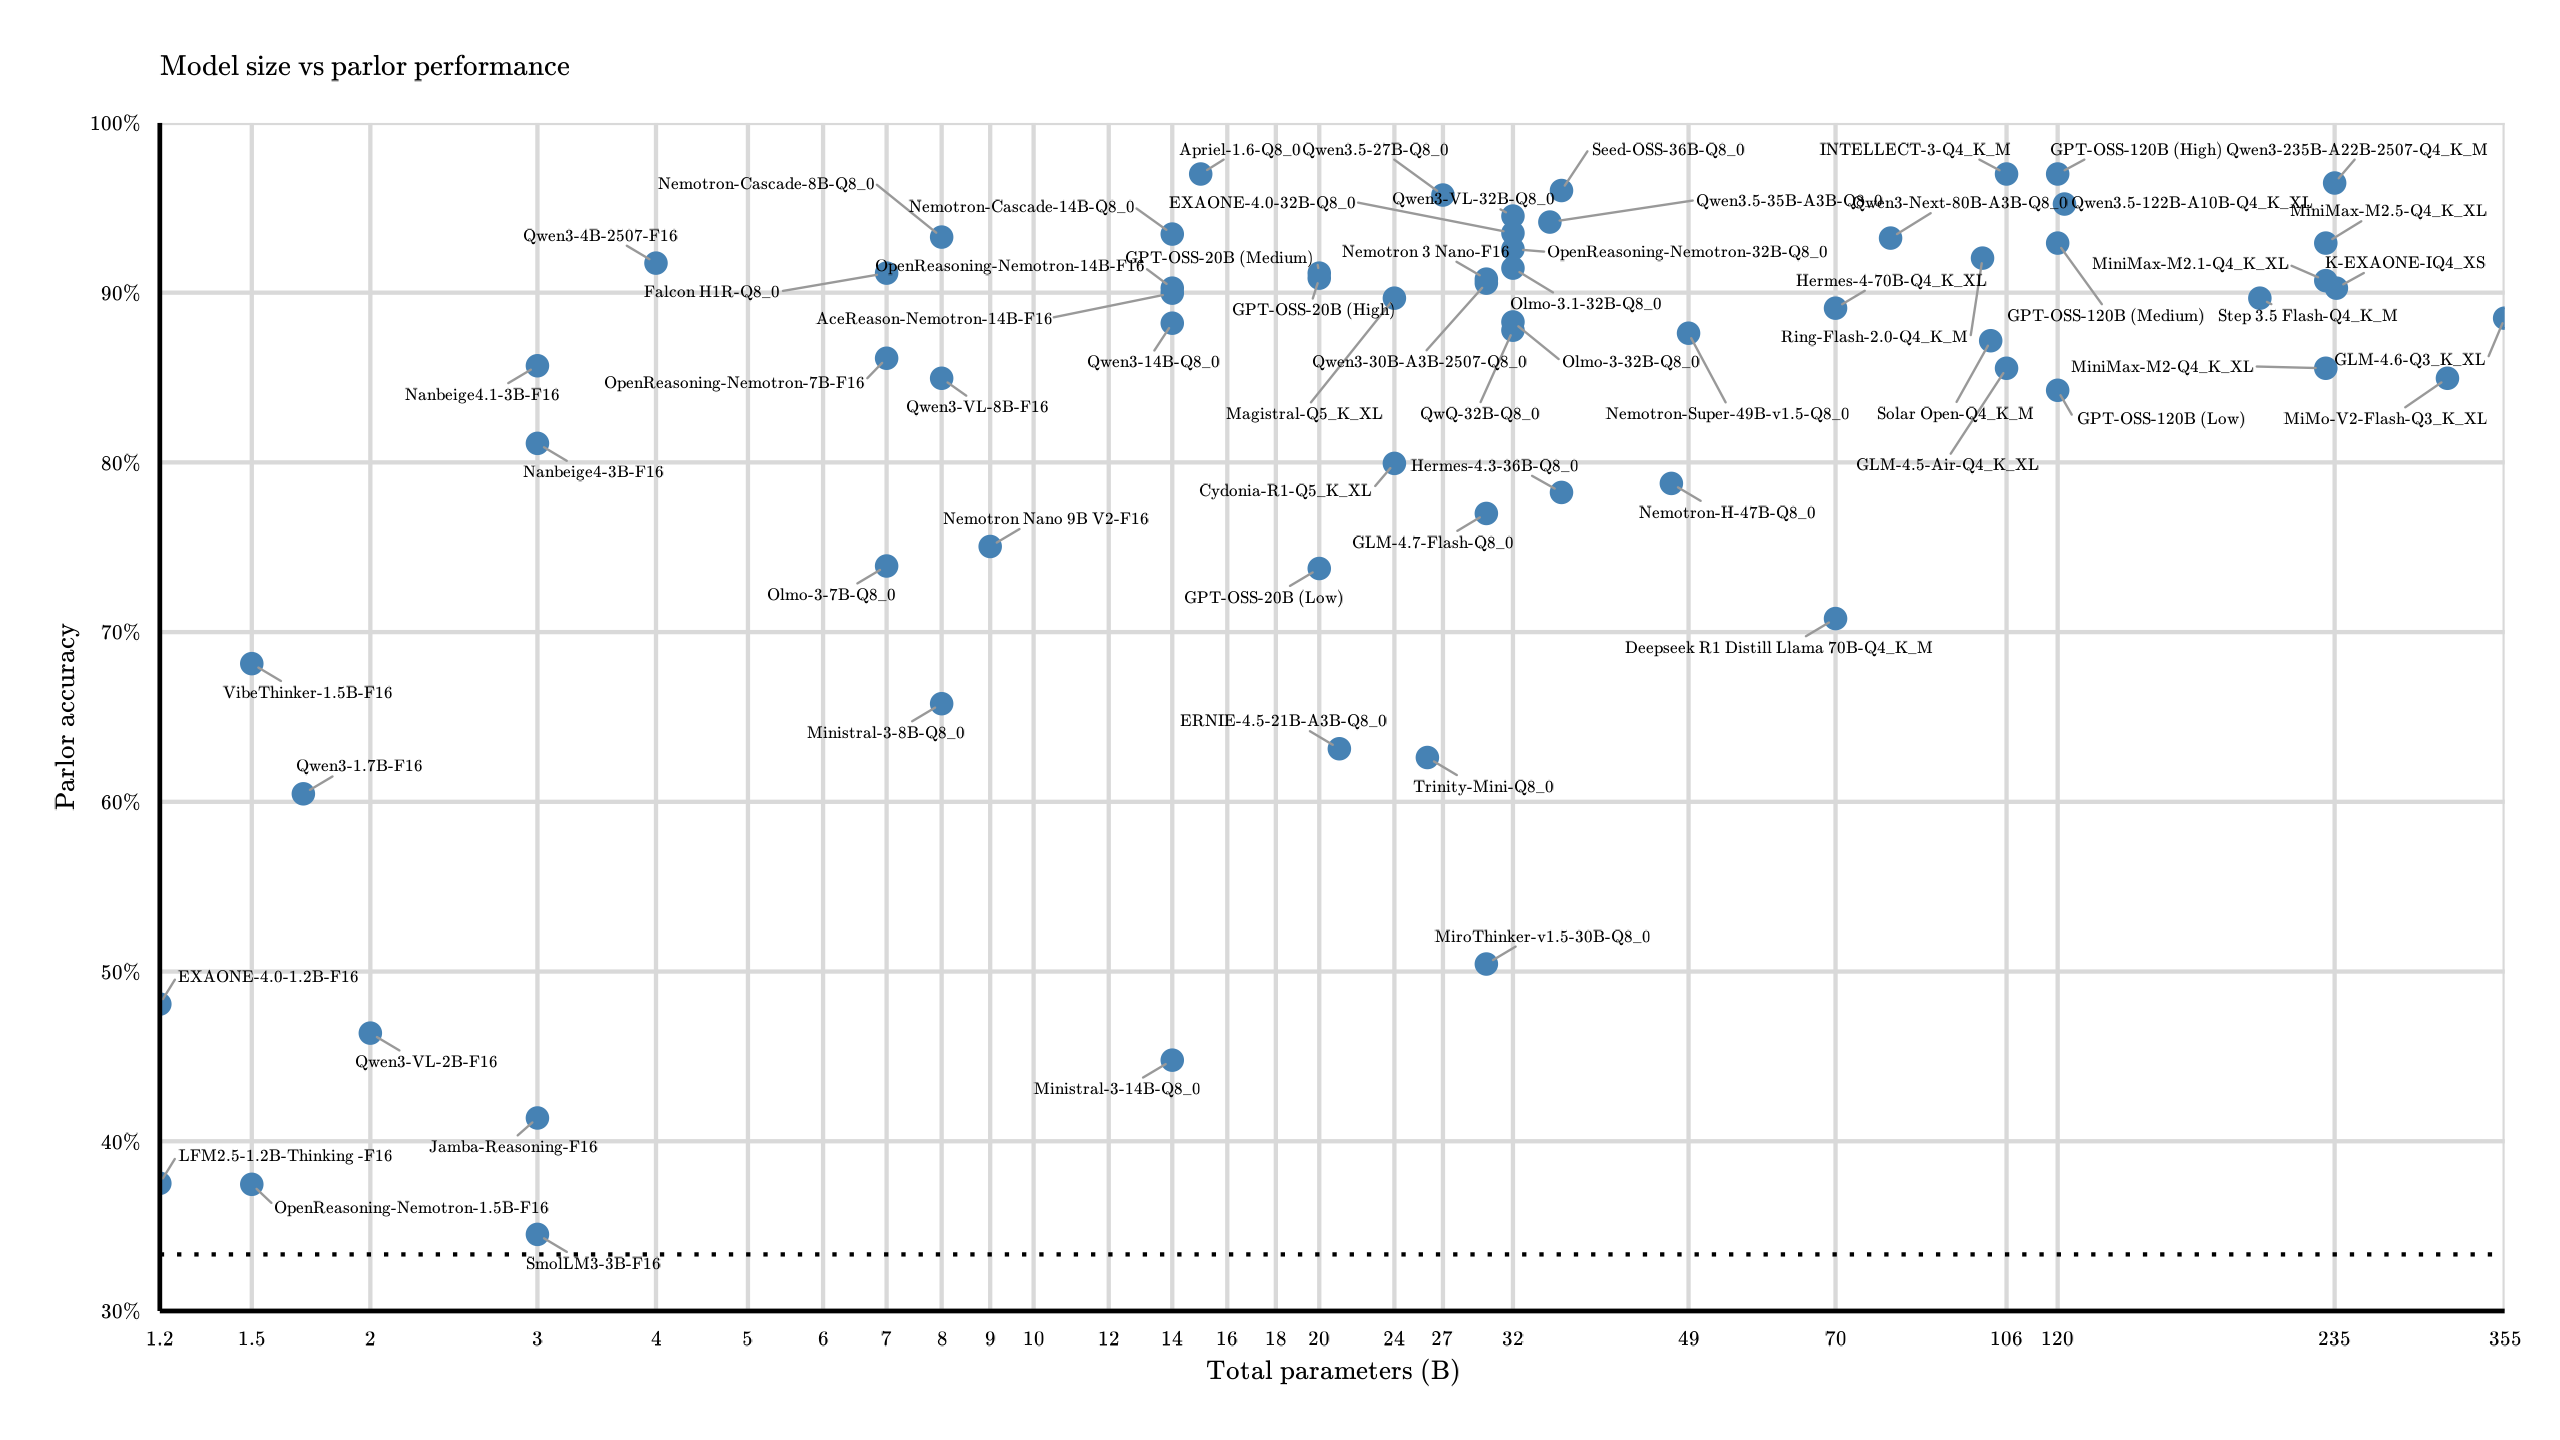
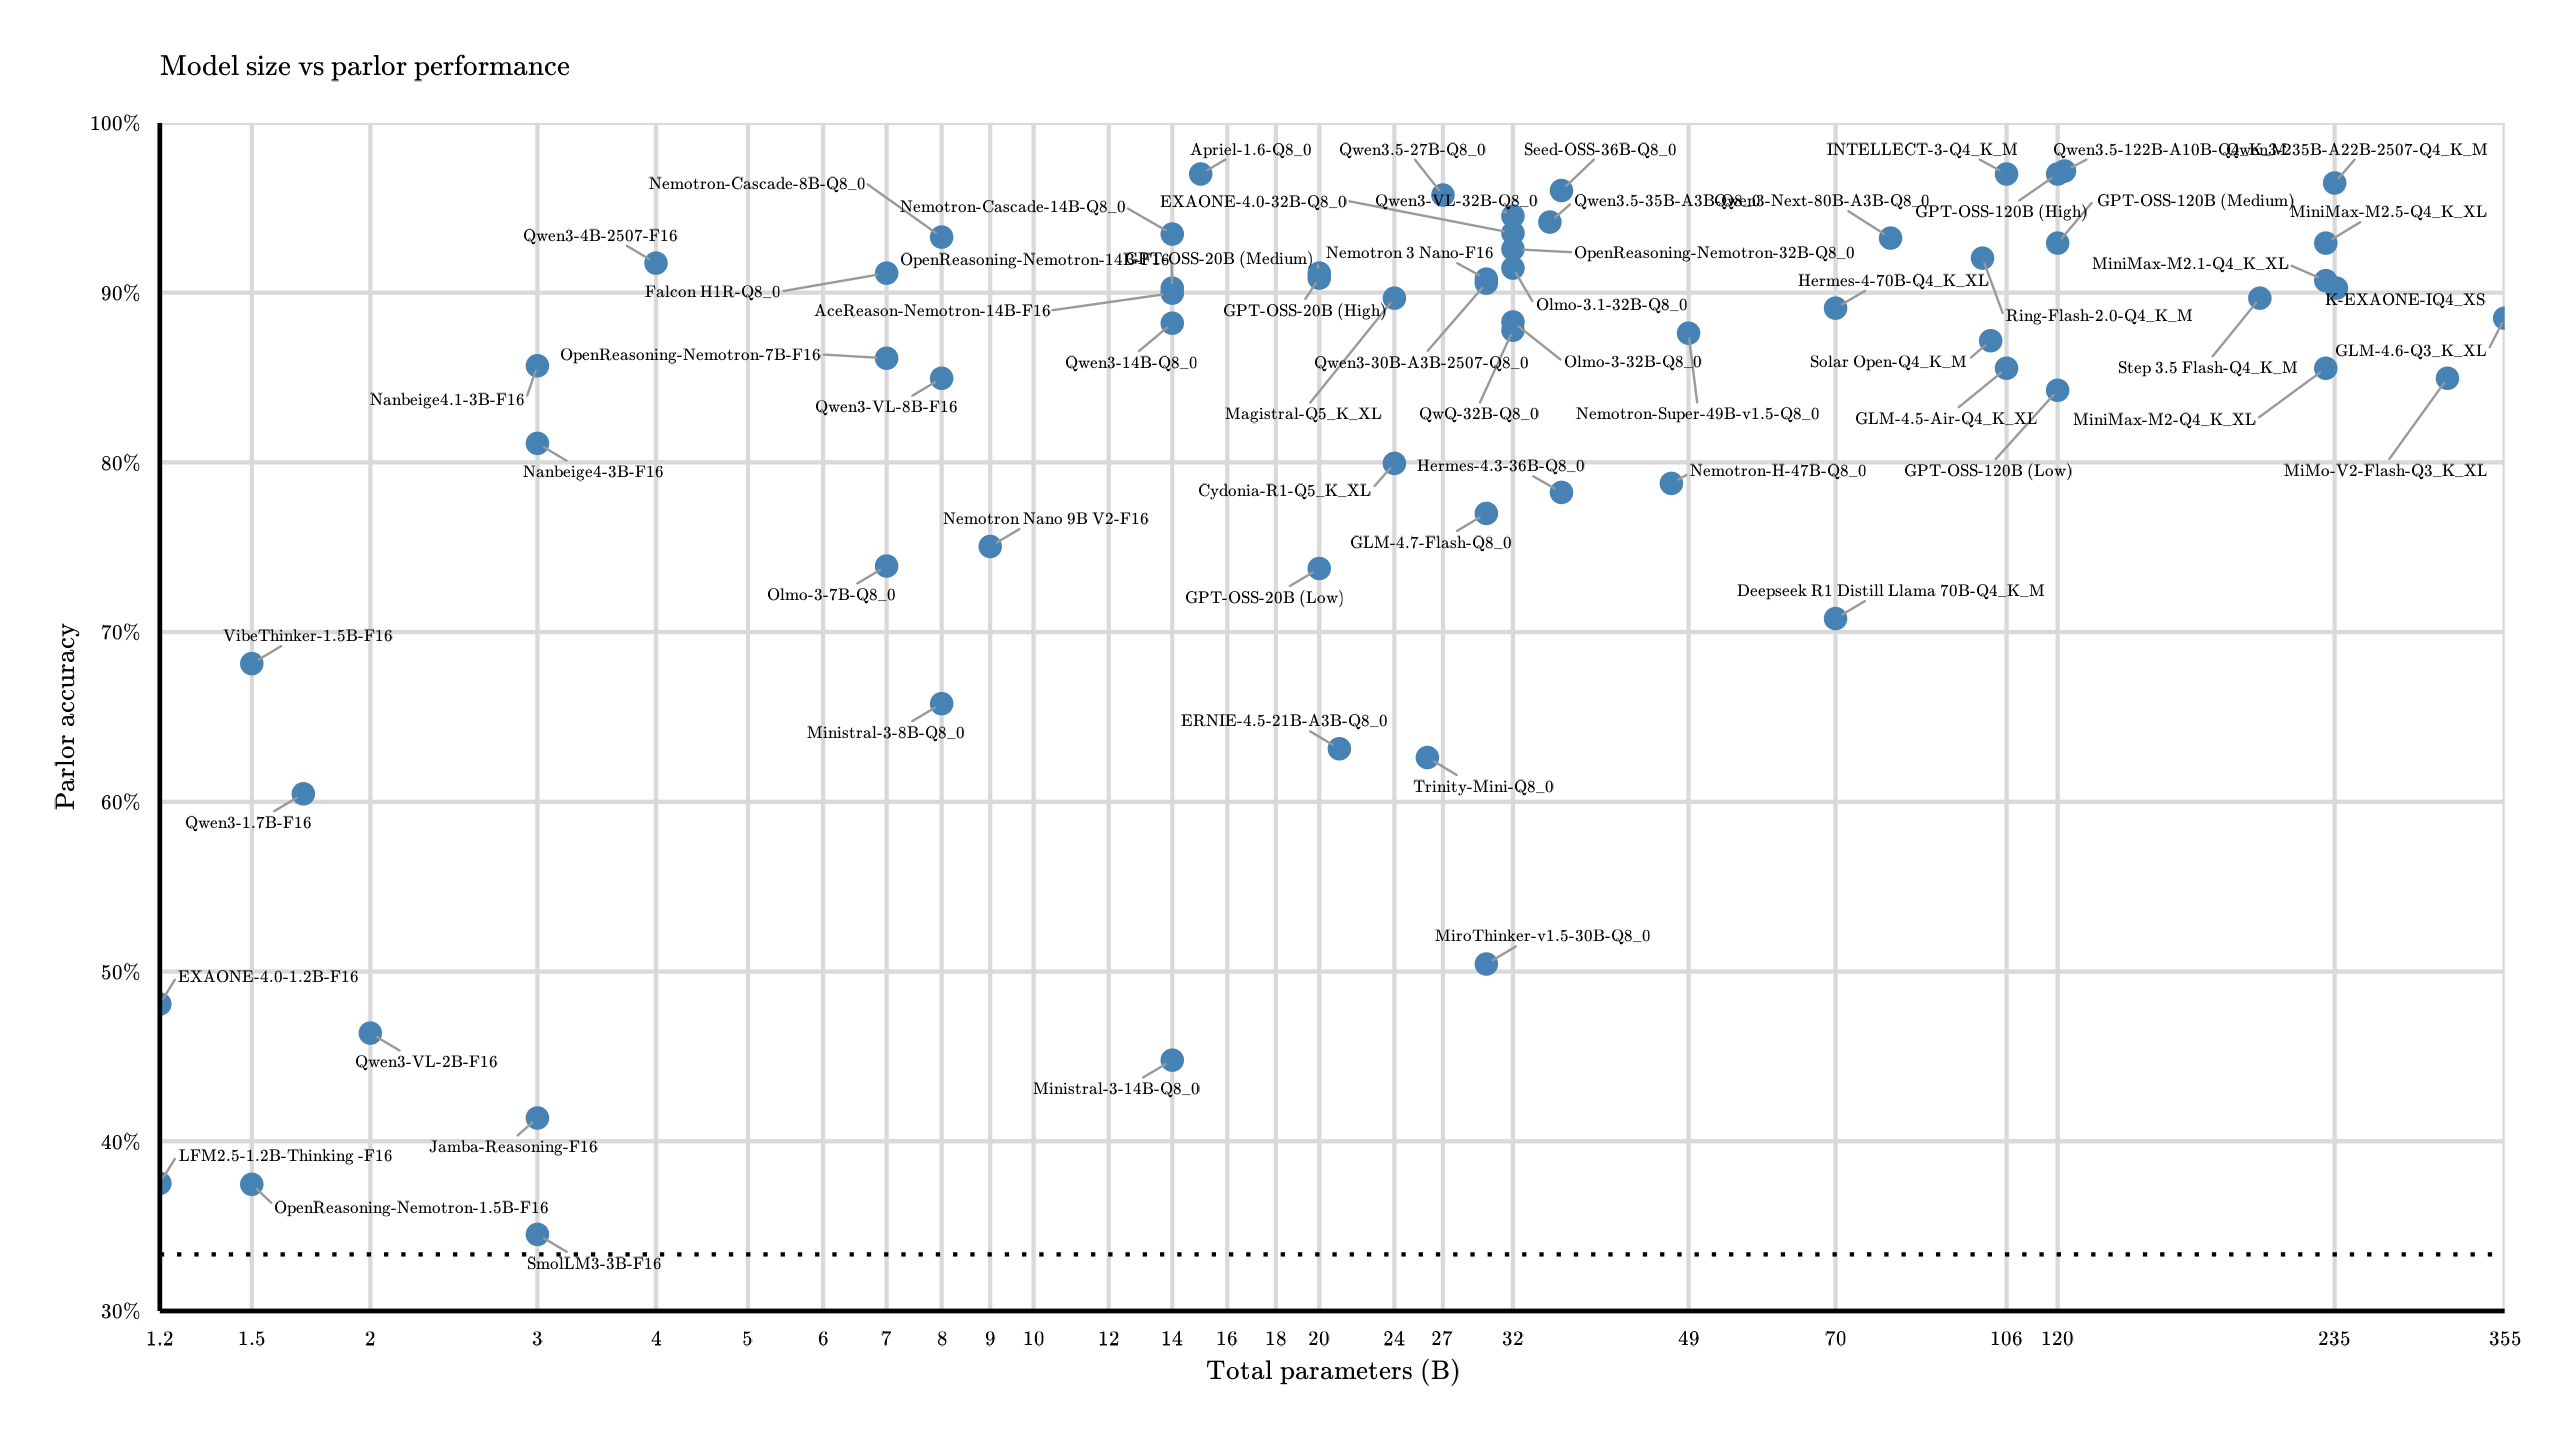
Parlor: INTELLECT-3.1, another Qwen3.5, text fixes

diff --git a/pages/parlor-reasoning.html b/pages/parlor-reasoning.html
@@ -44,7 +44,7 @@
         <div class="article-container">
             <header class="article-header">
                 <h1>Reasoning LLMs vs the Parlor Puzzle</h1>
-                <div class="meta">By BigStupidJellyfish | 2025-November-02 | Updated 2026-February-26</div>
+                <div class="meta">By BigStupidJellyfish | 2025-November-02 | Updated 2026-February-27</div>
             </header>
 <div class="article-content">
 
@@ -136,10 +136,11 @@
 </p>
 <p>
 	Max response length was set to 24k tokens.
-	Some response lengths are slight approximations due to the tools used.
+	<!-- Some response lengths are slight approximations due to the tools used. -->
 	I wrote a standardized prompt that provides enough information to solve all the puzzle configurations.
 	<!-- like mentioning the wind-up key used to open the boxes. -->
 	<!-- All tests in this section were ran with a constant prompt. -->
+	 Aside from the obvious exceptions (GPT-5, Gemini), all models were tested locally.
 </p>
 <p>
 	The results, in short:
@@ -347,6 +348,14 @@
       <td>113*5</td>
       <td>97.0%</td> <!-- 548/565 -->
       <td>6357/5245 tokens</td>
+    </tr>
+	<tr>
+      <td><a href="https://huggingface.co/PrimeIntellect/INTELLECT-3.1">INTELLECT-3.1</a></td>
+	  <td>106B</td>
+	  <td>MXFP4</td>
+      <td>113*3</td>
+      <td>96.8%</td> <!-- 328/339 -->
+      <td>6419/5201 tokens</td>
     </tr>
 	<tr>
       <td><a href="https://huggingface.co/LiquidAI/LFM2.5-1.2B-Thinking">LFM2.5-1.2B-Thinking</a></td>
@@ -656,14 +665,14 @@
 </p>
 <p>
 	The <a href="https://huggingface.co/ServiceNow-AI/Apriel-1.6-15b-Thinker">1.6 update</a> scored even better: 97.0%.
-	Its reasoning formatting was still irritating, to the point of making me not want to try using this model for other tasks, and it came up with more "unique" (bad) ways of displaying its answer than most models.
+	Its reasoning formatting was still irritating, to the point of making me not want to use this model for other tasks, and it came up with more "unique" (bad) ways of displaying its answer than most models.
 </p>
 
 <h3>Cydonia R1</h3>
 <p>
-	To be clear, this model seems to be a fine-tune of a non-reasoning model, adding reasoning with a focus on improving role-play performance.
+	To be clear, this model seems to be a fine-tune of a non-reasoning model (Mistral Small), adding reasoning with a focus on improving role-play performance.
 	I included it in this test because I was curious if that added thinking would still improve performance on other subjects.
-	It showed some improvement from Mistral Small, but was not on the level of Magistral.
+	It showed some improvement from its base, but was not on the level of Magistral.
 </p>
 
 <h3>EXAONE</h3>
@@ -712,8 +721,9 @@
 <p>
 	Perhaps there's some kind of logical reasoning focus in training this model neglected compared to its competitors.
 	Some blame of course may go to the low quant on 4.6, though I can't imagine that explains everything (even the Q3_K_XL Qwen3-4B did alright compared to its F16 version).
-	See also the INTELLECT-3 model trained on 4.5-Air.
+	See also: INTELLECT-3, trained on 4.5-Air.
 </p>
+
 <h3>GPT-5-Thinking-Mini</h3>
 <p>
 	This is the "thinking" model you get some access to without spending money.
@@ -726,7 +736,7 @@
 
 <h3>GPT-OSS</h3>
 <p>
-	The reasoning effort setting gives us a whole bunch of configurations, so I've copied over its best result and included the rest here:
+	The reasoning effort setting gives us a whole bunch of configurations, so I've copied over its best result to the main table and included the rest here:
 </p>
 <table>
   <thead>
@@ -805,7 +815,7 @@
 	The 120B model's high setting performed much better with a 97%, and is one of the best performances.
 </p>
 <p>
-	It's also notably a better score than the GPT-5-Thinking-Mini model, which is limited to ~10 messages every few hours without paying.
+	It's a better score than the GPT-5-Thinking-Mini model, which is limited to ~10 messages every few hours without paying.
 	The OSS models lack certain features (image recognition) and would need setup for others (tool integration), but are surprisingly competitive for this sort of task.
 	Just make sure it's set to high, and make sure it's actually listening to that setting.
 </p>
@@ -845,9 +855,7 @@ Batch final 3: 43317
 </p>
 <p>
 	Its reasoning length is a bit longer than GPT-OSS.
-</p>
-<p>
-	I may test this model more in other areas in the future, but cannot immediately comment on if any other areas have suffered as a result of this training.
+	No significant changes with its 3.1 update.
 </p>
 
 <h3>MiniMax M2</h3>
@@ -931,18 +939,19 @@ Batch final 3: 43317
 </p>
 <p>
 	Unfortunately, even the full Q4 model was not very good at these puzzles.
-	This was relatively surprising given its high "intelligence index" score (which tends to heavily favor math/reasoning-type models) and its overall focus on being a reasoning/STEM model.
-	Its relatively low active parameter count (10B) also is not a satisfactory explanation: on the extreme end of the size scale, MiniMax's parlor score is right between Nanbeige4 (3B total params) and Qwen3-4B-Thinking (4B total params).
-	If we were to set aside all the times it hit the token limit, its score on the remaining questions is a bit better (~91%), but that's still not an excellent score and applying the same standard to Ministral-3-14B would give it a score of ~94%.
+	This was relatively surprising given its high "intelligence index" score, which tends to heavily favor math/reasoning-type models, and its overall focus on being a coding/reasoning/STEM model.
+	Its relatively low active parameter count (10B) also is not a satisfactory explanation: on the extreme end of the size scale, MiniMax's parlor score could be placed between Nanbeige4 (3B total params) and Qwen3-4B-Thinking (4B total params).
+	If we were to set aside all the times it hit the token limit, its score on the remaining questions is a bit better (~91%), but that's still not an excellent score and applying the same standard to Ministral-3-14B would give that a score of ~94%.
 </p>
 <p>
 	Somehow, the 40% REAP version (Q4) scored slightly better than the regular Q4.
 	The 25% (Q3) REAP was also competitive with the full Q4, making them look like a decent option vs the standard IQ2_XXS or Q2_K_XL quants.
+	Performance in other domains not guaranteed, of course.
 </p>
-<p>
+<!-- <p>
 	I may try experimenting with this model more in the future, as the low active parameter count make even the proper Q4 run at a decent speed off of RAM, but for now, I can't tell you exactly why the scores are as listed.
 	The 2.1 update seems reasonable, bringing its score into a more respectable region while also using fewer tokens.
-</p>
+</p> -->
 <p>
 	Released in February 2026, MiniMax M2.5 looks to be a reasonable improvement.
 	It scores slightly better than 2/2.1, but its token usage is somewhere in between them.
@@ -1128,28 +1137,8 @@ Batch final 3: 43317
 	Very nice!
 	Its 96% is one of the better scores, also beating the online GPT-5-Thinking-Mini.
 	<!-- It only timed out two times (in 2x113 runs), both on the same puzzle: -->
-</p>
-<!-- <ul>
-	<li>Blue: "The statement matching this statement is true. 
-The statement matching this statement is on a completely true box."
-</li>
-<li>White: "The statement matching this statement is true. 
-The statement matching this statement is on a box containing gems."
-</li>
-<li>Black: "The statement matching this statement is on a box containing gems. 
-The statement matching this statement is on a completely true box."
-</li>
-</ul> -->
-<!-- <p>
-	Which, if you ask me, can actually be simplified/solved surprisingly quickly.
-	I'm not too surprised a LLM would get tripped up, though.
-	The reasoning traces largely seemed to struggle to understand what a "matching" statement is.
-</p> -->
-<p>
 	<!-- Amusingly, the Q4 timed out only once on a separate problem, and got the above problem right on one of its two attempts. -->
 	Total score was unchanged between its Q4/Q8 quants.
-</p>
-<p>
 	Its score on my non-thinking/fact-based benchmark was about typical for its size.
 </p>
 
@@ -1277,6 +1266,14 @@ The statement matching this statement is on a completely true box."
 	<tr>
       <td><a href="https://huggingface.co/Qwen/Qwen3.5-122B-A10B">Qwen3.5-122B-A10B</a></td>
 	  <td>122B</td>
+	  <td>Q4_K_M</td>
+      <td>113*5</td>
+	  <td>97.2%</td> <!-- 549/565 -->
+      <td>5397/4855 tokens</td>
+    </tr>
+	<tr>
+      <td></td>
+	  <td></td>
 	  <td>Q4_K_XL</td>
       <td>113*5</td>
 	  <td>95.2%</td> <!-- 538/565 -->
@@ -1294,8 +1291,6 @@ The statement matching this statement is on a completely true box."
 </table>
 <p>
 	1.7B, VL-2B: I recommend using at least slightly larger models than this.
-</p>
-<p>
 	4B: This model was small and promising enough to test a range of its quantizations, which may be easier to review visually:
 </p>
 <center><div class="figure">
@@ -1321,10 +1316,21 @@ The statement matching this statement is on a completely true box."
 	Supporting a model with RAG/web search/similar tech can also only do so much.
 	Models cannot actually reflect on their own knowledge, and may not reliably use these tools when they truly need to.
 </p>
-<p>
+<!-- <p>
 	In my more <a href="llm-quants#pq">fact-based testing</a>, the instruct version of this model scored around 45%. (Thinking, in general, showed no major improvement on those tests.)
 	Certainly not a bad score for its size, but a number of 7-14B models did noticeably better, and are not that much harder to run.
+</p> -->
+<!-- <p>
+	Qwen3-Next: my impressions so far are that GLM-4.5-Air has a bit of an edge for instruct/general capabilities, and GPT-OSS-120B has an advantage in reasoning tasks.
+	That said, it's relatively competitive with both despite the size disadvantage.
+	Its knowledge cutoff seems better than most models I've tested so far, which can be very nice.
+</p> -->
+<p>
+	Qwen3.5: they do quite nicely here, beating all previous Qwen models short of the 235B-A22B.
+	Token consumption is normal.
+	Curiously, <a href="https://huggingface.co/AesSedai/Qwen3.5-122B-A10B-GGUF">this Q4_K_M</a> of the 122B-A10B scored noticeably higher than the <a href="https://huggingface.co/unsloth/Qwen3.5-122B-A10B-GGUF">unsloth Q4_K_XL</a>, and set a new record on the test by 0.2%.
 </p>
+<h3>Distills</h3>
 <p>
 	I also tested <a href="https://huggingface.co/Liontix/Qwen3-4B-Thinking-2507-Gemini-2.5-Pro-Distill">this "Gemini 2.5 Pro distill" of Qwen3-4B</a>.
 	It is absolutely worthless - 38.9% after 3 sets of all 113 questions.
@@ -1338,12 +1344,6 @@ The statement matching this statement is on a completely true box."
 	Completely incompetent.
 	Though the poor "example" prompts on that page should also have warned you that something's up.
 </p>
-<p>
-	Qwen3-Next: my impressions so far are that GLM-4.5-Air has a bit of an edge for instruct/general capabilities, and GPT-OSS-120B has an advantage in reasoning tasks.
-	That said, it's relatively competitive with both despite the size disadvantage.
-	Its knowledge cutoff seems better than most models I've tested so far, which can be very nice.
-</p>
-
 <span class="anchor" id="conclusion"></span>
 <h2>Conclusion and notes<sup><small><a href="#conclusion">&#35;</a></small></sup></h2>
 <p>
